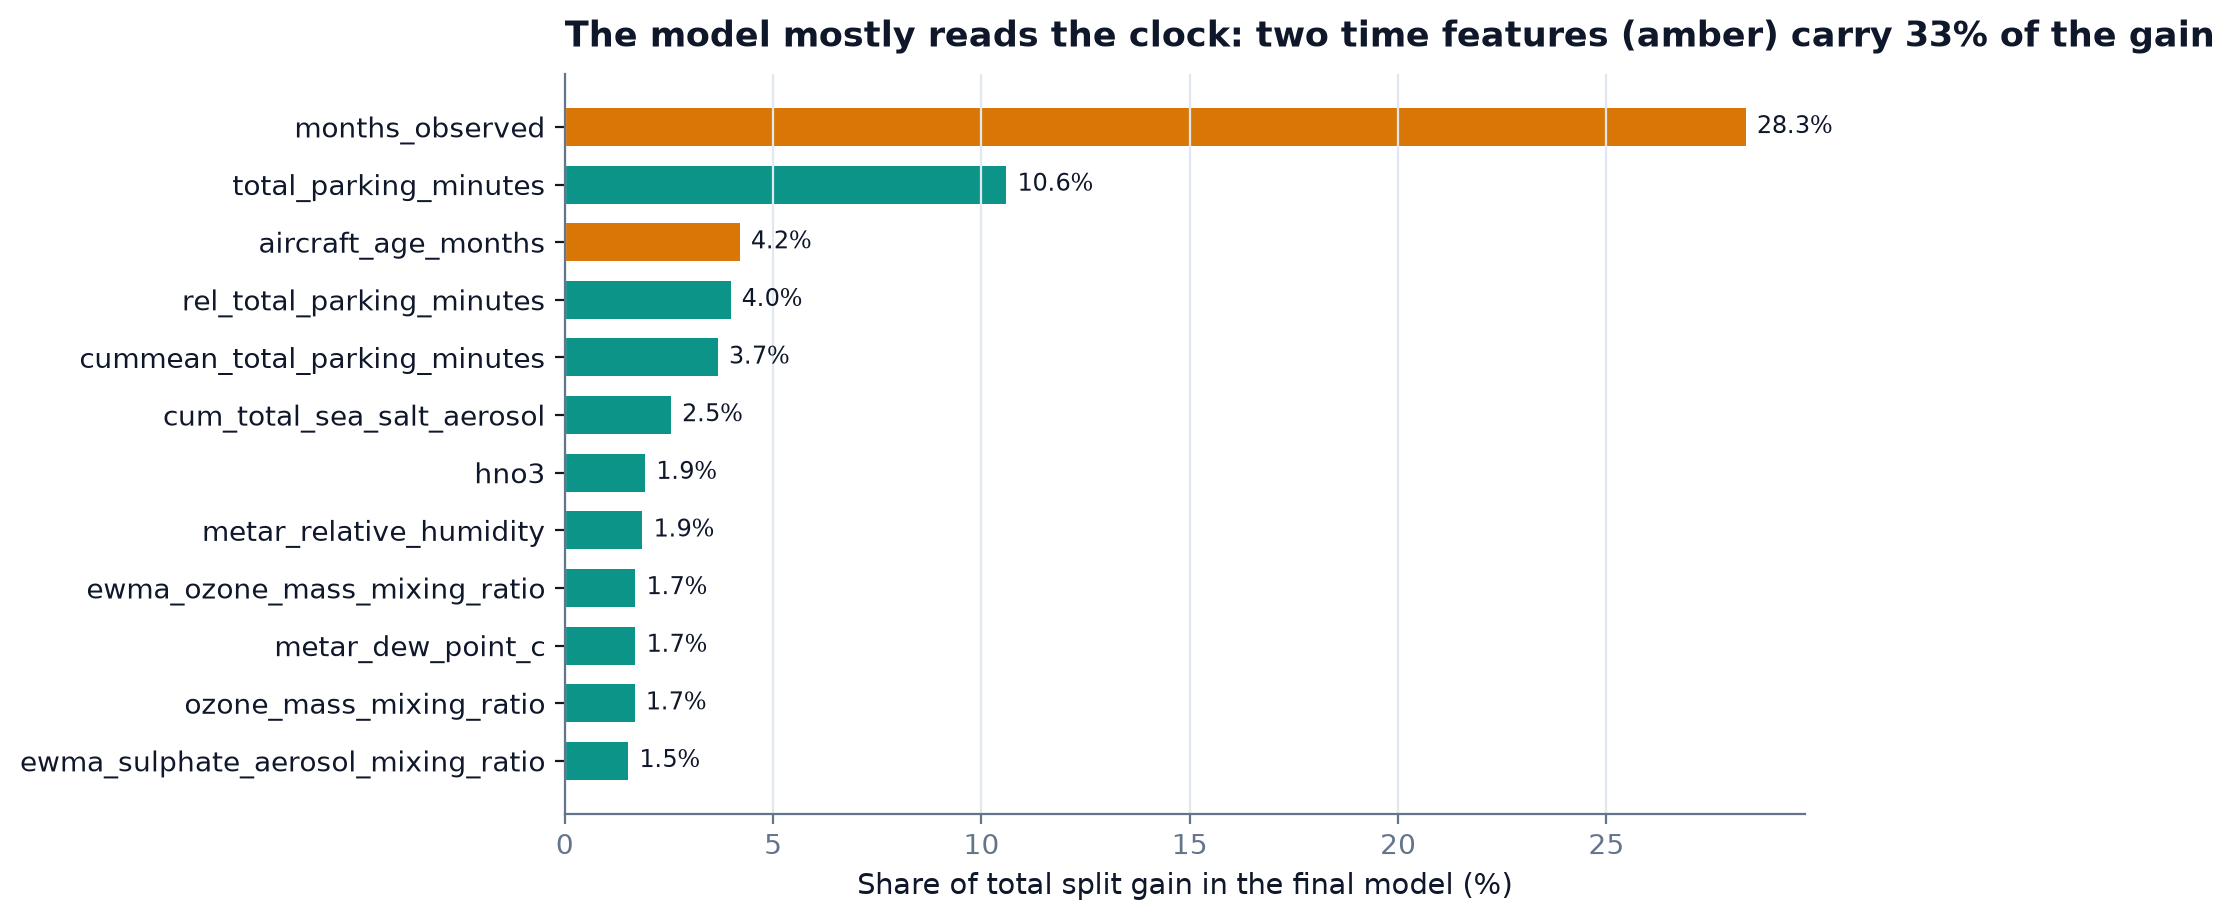
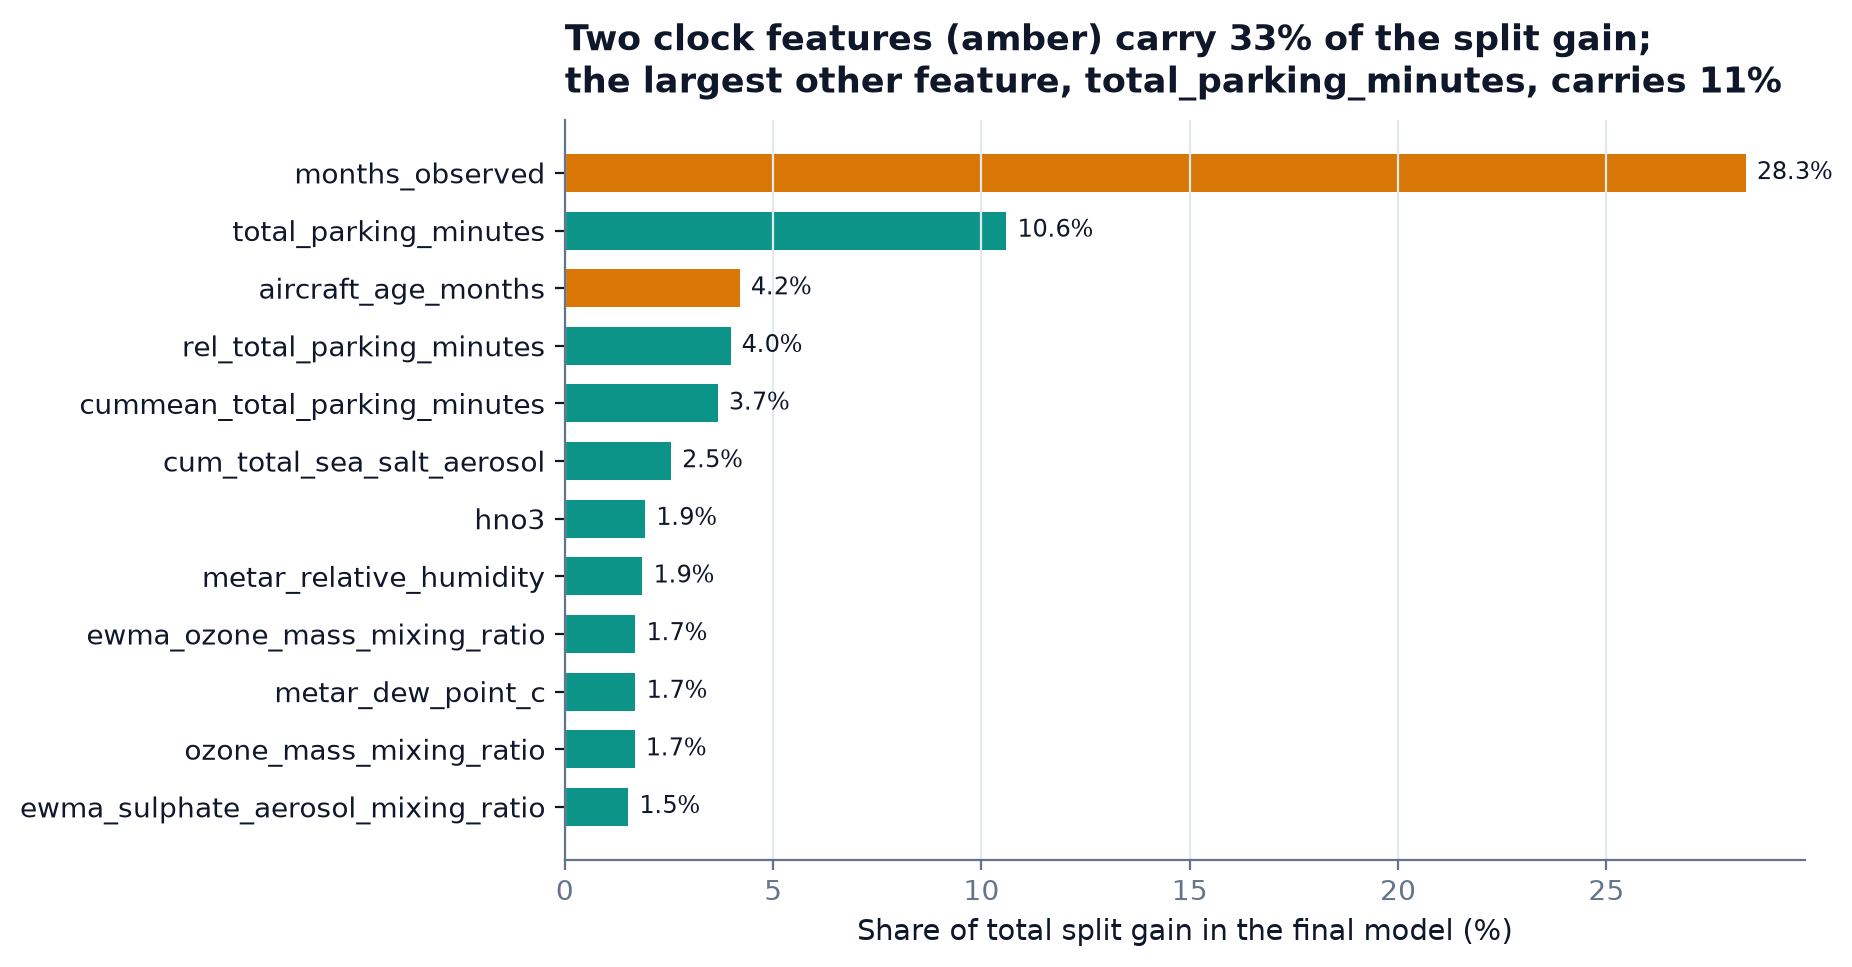
figures: feature-importance title matches the one-third share; reported private score shown as 0.18

Changed region(s): [[0.0, 0.0, 1.0, 0.9729]]

diff --git a/src/corrosion_risk/figures.py b/src/corrosion_risk/figures.py
@@ -106,7 +106,7 @@ def hero(metrics: dict) -> Path:
     for score, name in ((REPORTED_PUBLIC, "public LB"), (REPORTED_PRIVATE, "private LB")):
         ax.scatter([a], [score], marker="D", s=34, color=INK, zorder=5)
         ax.annotate(
-            f"reported {name} {score:.3f}",
+            f"reported {name} {score:g}",
             (a, score),
             xytext=(9, 0),
             textcoords="offset points",
@@ -115,7 +115,7 @@ def hero(metrics: dict) -> Path:
             color=INK,
         )
     ax.set_xlim(0.3, 1.0)
-    ax.set_ylim(0.13, 0.24)
+    ax.set_ylim(0.125, 0.24)
     ax.set_xlabel("Shrinkage factor α in  p → 0.5 + α (p − 0.5)    (α = 1: raw model)")
     ax.set_ylabel("Brier score (lower is better)")
     ax.set_title(
@@ -276,8 +276,11 @@ def feature_importance(metrics: dict) -> Path:
     ax.grid(axis="y", visible=False)
     ax.set_xlabel("Share of total split gain in the final model (%)")
     share = imp[imp.index.isin(clock)].sum()
+    other = imp[~imp.index.isin(clock)]
     ax.set_title(
-        f"The model mostly reads the clock: two time features (amber) carry {share:.0%} of the gain", pad=10
+        f"Two clock features (amber) carry {share:.0%} of the split gain;\n"
+        f"the largest other feature, {other.idxmax()}, carries {other.max():.0%}",
+        pad=10,
     )
     return _save(fig, "feature_importance.png")
 
